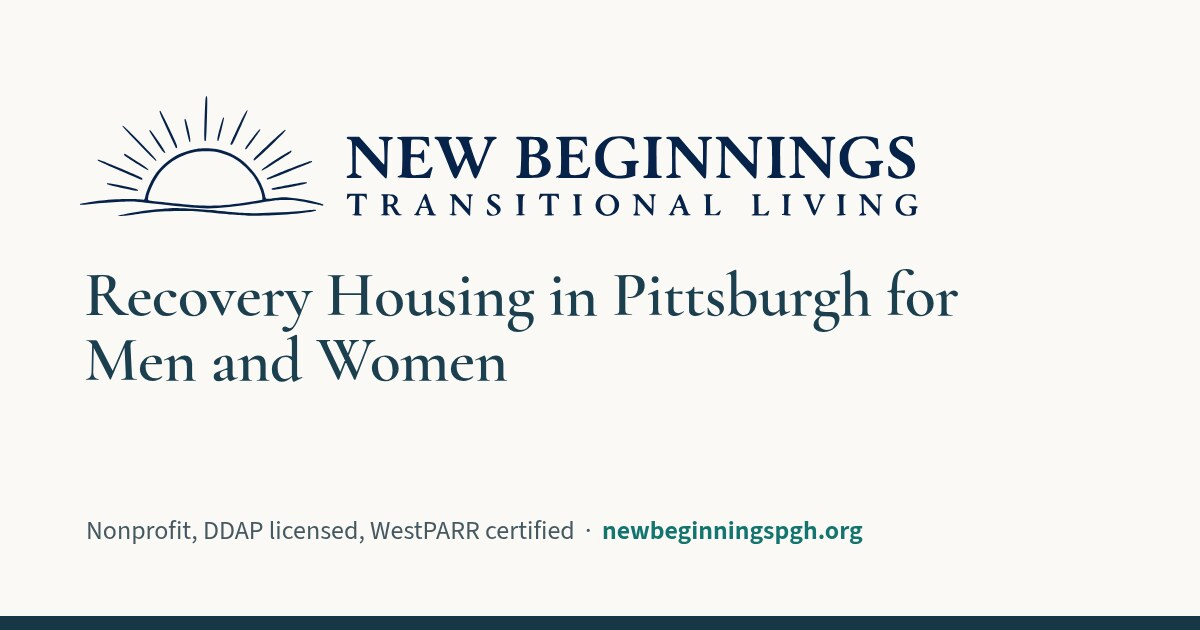
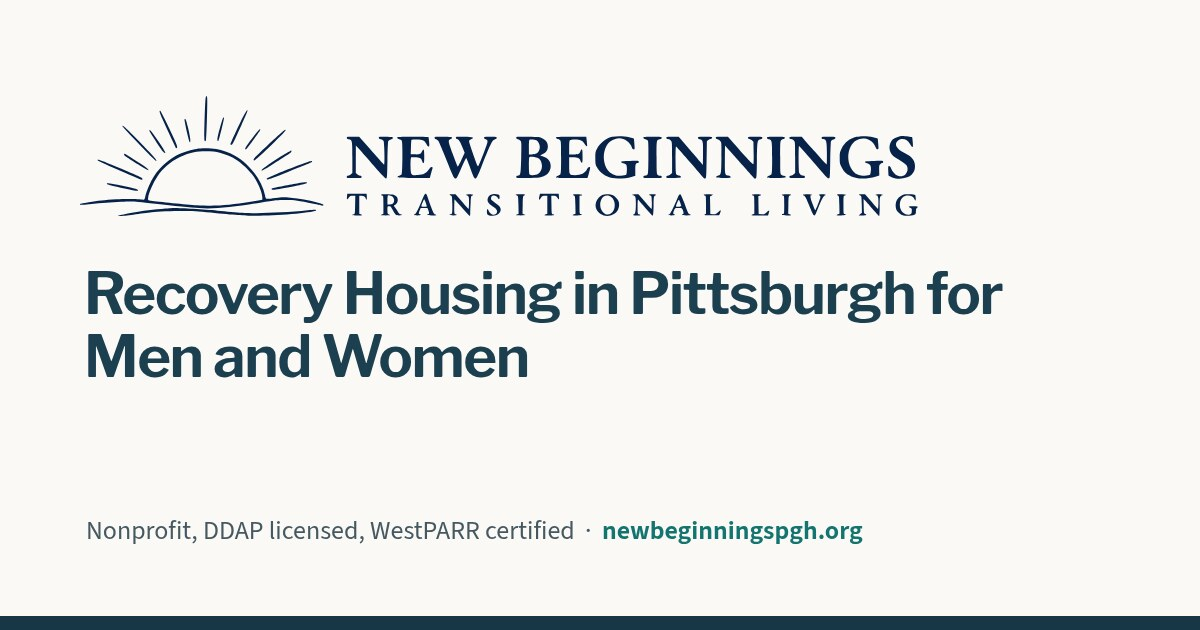
Switch headings to Libre Franklin
Cormorant Garamond read as boutique rather than institutional. Headings
now use Libre Franklin at weight 650 via --font-display; Source Sans 3
stays for body and UI; serifs are reserved for the logo. Heading
measures rescaled for the wider face, split-hero size trimmed, share
image regenerated, style guide updated.

Claude-Session: https://claude.ai/code/session_01PmBCB1XzAEk5jJLRSSTpMM

Changed region(s): [[0.0617, 0.4222, 0.8325, 0.6032]]

diff --git a/src/styles/global.css b/src/styles/global.css
@@ -1,18 +1,16 @@
 @import '@fontsource-variable/source-sans-3';
-@import '@fontsource/cormorant-garamond/500.css';
-@import '@fontsource/cormorant-garamond/600.css';
-@import '@fontsource/cormorant-garamond/700.css';
-@import '@fontsource/cormorant-garamond/600-italic.css';
+@import '@fontsource-variable/libre-franklin';
 
 :root {
   --font-body: 'Source Sans 3 Variable', 'Open Sans', Arial, sans-serif;
-  --font-display: 'Cormorant Garamond', 'Cormorant', Garamond, 'Times New Roman', serif;
+  --font-display: 'Libre Franklin Variable', 'Libre Franklin', 'Franklin Gothic Medium', Arial, sans-serif;
+  --weight-display: 650;
   --brand-ink: #08234a;
   --brand-lockup-ratio: 6.983;
   --brand-lockup-height: 2.5rem;
   --brand-lockup-height-footer: 2.75rem;
-  --display-tracking: -.01em;
-  --display-line-height: 1.02;
+  --display-tracking: -.025em;
+  --display-line-height: 1.04;
   --navy-950: #173746;
   --navy-900: #1d4050;
   --navy-800: #285568;
@@ -73,14 +71,14 @@
   --gap-columns: clamp(2rem, 5vw, 4rem);
   --split-intro-gap: clamp(2.5rem, 7vw, 6rem);
   --split-intro-heading-size: clamp(2rem, 3.2vw, 3rem);
-  --split-intro-heading-measure: 25ch;
+  --split-intro-heading-measure: 30ch;
   --type-display-home: clamp(3.5rem, 6.25vw, 5.75rem);
   --type-display-feature: clamp(3.25rem, 5.9vw, 5.5rem);
   --type-display-interior: clamp(3.1rem, 5.5vw, 5.25rem);
   --type-display-narrative: clamp(3.25rem, 5.1vw, 4.65rem);
   --type-display-centered: clamp(3rem, 6vw, 5.35rem);
   --type-display-editorial: clamp(3.4rem, 6.2vw, 5.7rem);
-  --type-display-split: clamp(2.9rem, 4.4vw, 4.4rem);
+  --type-display-split: clamp(2.7rem, 4vw, 4rem);
   --type-display-donation: clamp(3.2rem, 5.4vw, 5.15rem);
   --type-display-banner: clamp(3.1rem, 5vw, 4.75rem);
   --type-display-compact: clamp(2.65rem, 5vw, 4.5rem);
@@ -117,10 +115,10 @@ a:hover { color: var(--teal-800); }
 button, input, select, textarea { font: inherit; }
 :focus-visible { outline: 3px solid var(--focus); outline-offset: 3px; }
 h1, h2, h3, h4 { margin: 0; color: var(--navy-900); font-weight: var(--weight-heading); line-height: 1.1; text-wrap: balance; }
-h1, h2, h3 { font-family: var(--font-display); font-weight: var(--weight-heading); letter-spacing: var(--display-tracking); }
+h1, h2, h3 { font-family: var(--font-display); font-weight: var(--weight-display); letter-spacing: var(--display-tracking); }
 h1 { font-size: clamp(2.8rem, 6vw, 5.8rem); line-height: var(--display-line-height); }
 h2 { font-size: clamp(2rem, 3.6vw, 3.25rem); line-height: 1.06; }
-h3 { font-size: clamp(1.25rem, 1.8vw, 1.5rem); line-height: 1.2; font-size-adjust: ex-height 0.47; }
+h3 { font-size: clamp(1.25rem, 1.8vw, 1.5rem); line-height: 1.2; letter-spacing: -.015em; }
 h4 { font-size: 1.1rem; line-height: 1.3; }
 p { margin: 0; text-wrap: pretty; }
 p + p { margin-top: var(--space-4); }
@@ -172,7 +170,7 @@ ul, ol { margin-block: 0; }
 .text-link:hover::after { transform: translateX(.2rem); }
 .cta-band { padding-block: var(--section-compact); color: var(--white); background: var(--navy-900); }
 .cta-band__inner { display: grid; grid-template-columns: minmax(0, 1fr) auto; gap: var(--space-6); align-items: center; }
-.cta-band h2 { max-width: 27ch; color: var(--white); font-size: clamp(1.9rem, 3vw, 2.8rem); }
+.cta-band h2 { max-width: 32ch; color: var(--white); font-size: clamp(1.9rem, 3vw, 2.8rem); }
 .cta-band p { max-width: 45rem; margin-top: var(--space-3); color: var(--sky-100); }
 .skip-link { position: fixed; z-index: 1000; top: .5rem; left: .5rem; padding: .65rem 1rem; transform: translateY(-150%); background: var(--white); color: var(--navy-950); }
 .skip-link:focus { transform: none; }
@@ -199,7 +197,7 @@ ul, ol { margin-block: 0; }
     --gap-columns: var(--space-6);
     --split-intro-gap: var(--space-5);
     --split-intro-heading-size: clamp(2rem, 6vw, 2.55rem);
-    --split-intro-heading-measure: 22ch;
+    --split-intro-heading-measure: 26ch;
     --icon-medallion-size-md: 3rem;
     --icon-medallion-size-lg: 3.5rem;
   }

diff --git a/STYLE-GUIDE.md b/STYLE-GUIDE.md
@@ -6,7 +6,7 @@ This section is the source of truth for the current New Beginnings site. The bro
 
 ### Visual System
 
-- Type pairing: headings (`h1`, `h2`, `h3`) use Cormorant Garamond SemiBold via `--font-display`; body, UI, buttons, eyebrows, and small labels use Source Sans 3 via `--font-body`. Do not set headings in the sans or body copy in the serif.
+- Type pairing: headings (`h1`, `h2`, `h3`) use Libre Franklin at `--weight-display` (650) via `--font-display`; body, UI, buttons, eyebrows, and small labels use Source Sans 3 via `--font-body`. Serifs are reserved for the logo. Do not set headings in the body font.
 - Logo: the vector lockup and symbol live in `src/assets/brand/` and are inlined by `BrandLockup.astro`, filled with `currentColor`. Set the mark's color with `color`, its size with `--brand-lockup-height` / `--brand-lockup-height-footer`. Never recreate the logo in live text.
 - Palette: institutional navy and teal, pale sky, paper, and off white surfaces. Brand ink for the logo is `--brand-ink`.
 - Use the shared tokens in `src/styles/global.css` for color, weight, type roles, spacing, controls, header geometry, medallions, focus, and common depth.
